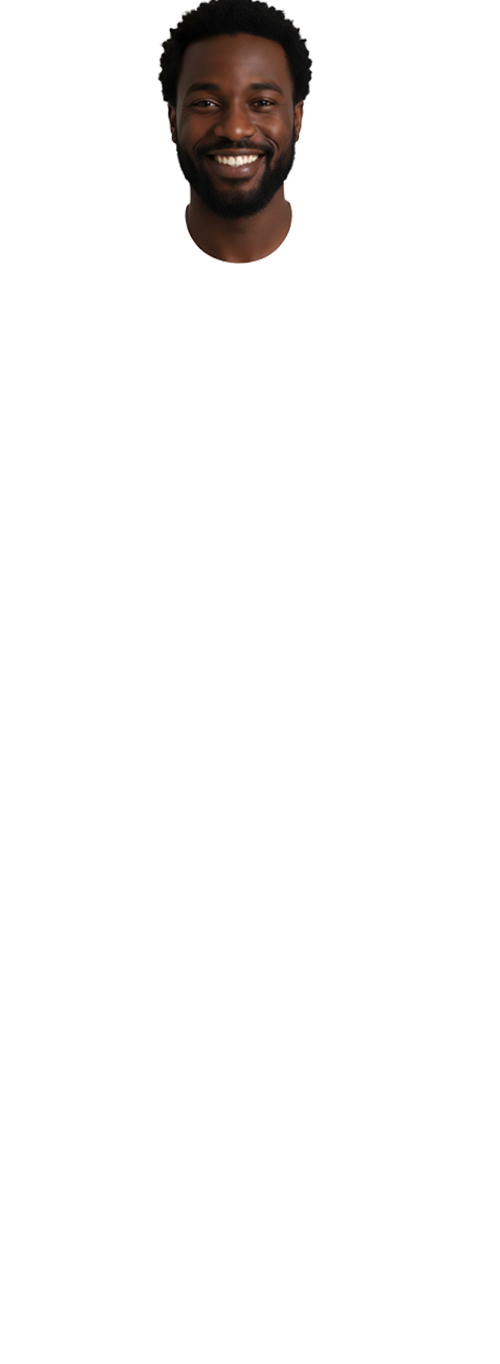
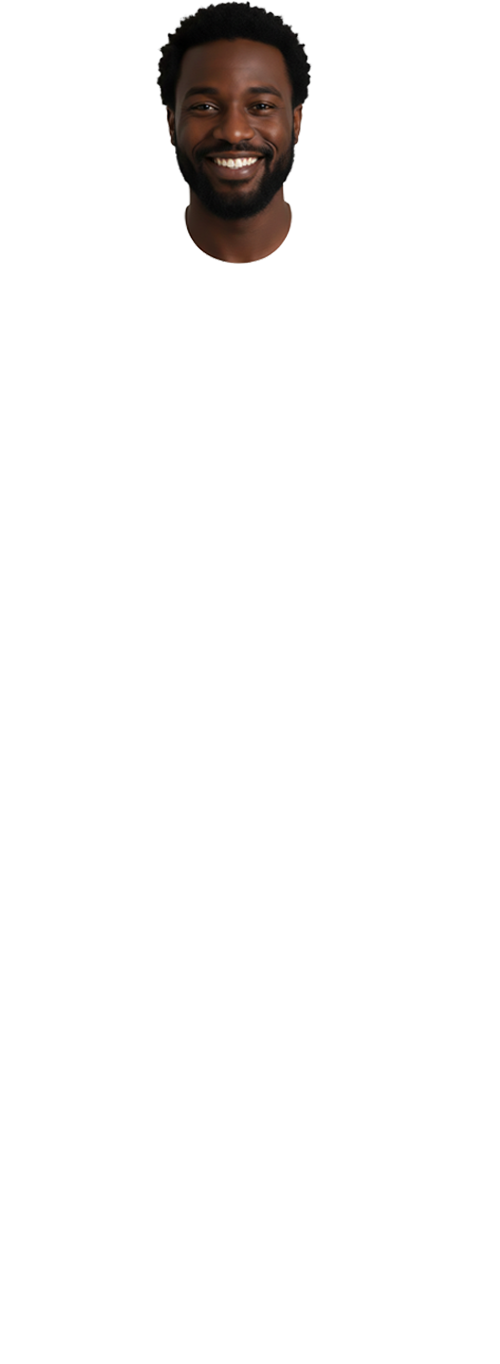
images and faces

Changed region(s): [[0.33, 0.0, 0.63, 0.154], [0.3, 0.0308, 0.36, 0.1232], [0.36, 0.1232, 0.39, 0.154]]

diff --git a/src/App.vue b/src/App.vue
@@ -536,7 +536,12 @@ export default {
         face: { name: 'Blonde', swatch: 'swatch-blonde.png', preview: 'face-blonde.png', folder: 'faceSwatches' },
         jacket: { name: 'Midnight Blue', swatch: 'swatch-midnightBlue.png', preview: 'jacket-midnightBlue.png', folder: 'jacketSwatches' },
         kilt: { name: 'Ancient Patriot', swatch: 'swatch-ancientPatriot.png', preview: 'kilt-ancientPatriot.png', folder: 'kiltSwatches' },
-        tie: { name: 'Navy', swatch: 'swatch-navy.png', preview: 'tie-navy.png', folder: 'tieSwatches' }},
+        tie: {},
+        // shirt: {},
+        sporran: { name: 'Silver', swatch: 'swatch-sporran-silver.png', preview: 'sporran-silver.png', folder: 'sporranSwatches' }
+        // socks: {},
+        // shoes: {}
+      },
       uploadedFaceTransform: {
         scale: 0.19,
         x: -5,
